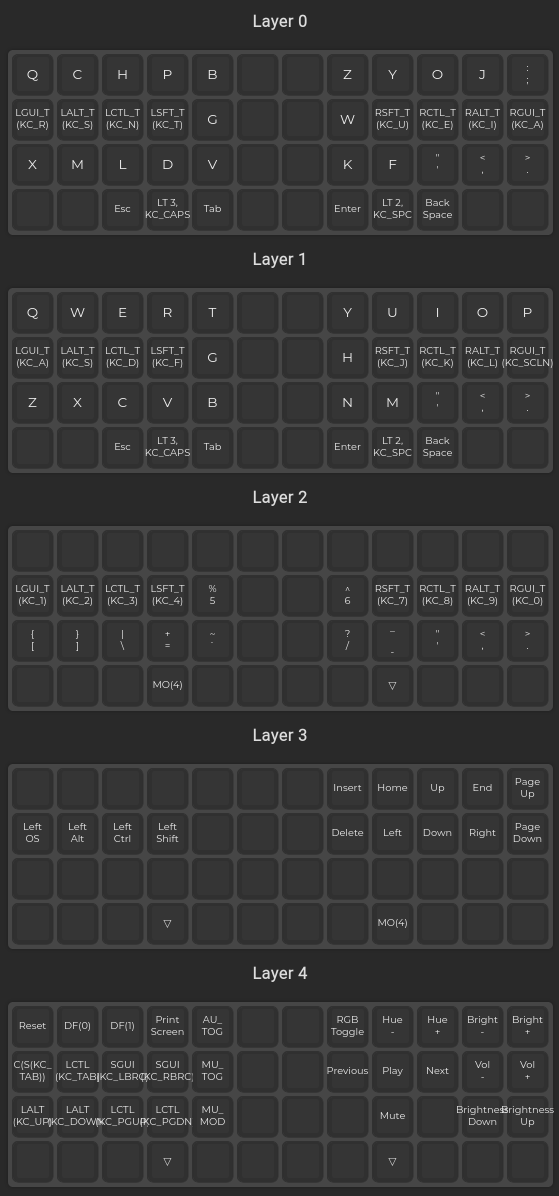
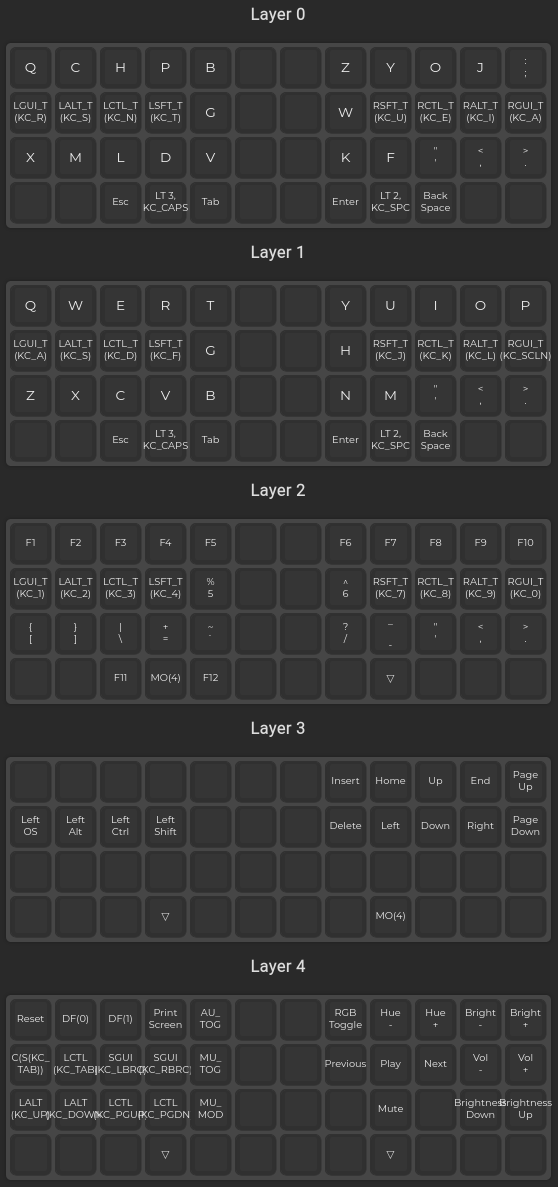
Add F keys

diff --git a/keymap.c b/keymap.c
@@ -9,7 +9,7 @@
 const uint16_t PROGMEM keymaps[][MATRIX_ROWS][MATRIX_COLS] = {
 	[0] = LAYOUT_ortho_4x12(KC_Q, KC_C, KC_H, KC_P, KC_B, KC_NO, KC_NO, KC_Z, KC_Y, KC_O, KC_J, KC_SCLN, LGUI_T(KC_R), LALT_T(KC_S), LCTL_T(KC_N), LSFT_T(KC_T), KC_G, KC_NO, KC_NO, KC_W, RSFT_T(KC_U), RCTL_T(KC_E), RALT_T(KC_I), RGUI_T(KC_A), KC_X, KC_M, KC_L, KC_D, KC_V, KC_NO, KC_NO, KC_K, KC_F, KC_QUOT, KC_COMM, KC_DOT, KC_NO, KC_NO, KC_ESC, LT(3,KC_CAPS), KC_TAB, KC_NO, KC_NO, KC_ENT, LT(2,KC_SPC), KC_BSPC, KC_NO, KC_NO),
 	[1] = LAYOUT_ortho_4x12(KC_Q, KC_W, KC_E, KC_R, KC_T, KC_NO, KC_NO, KC_Y, KC_U, KC_I, KC_O, KC_P, LGUI_T(KC_A), LALT_T(KC_S), LCTL_T(KC_D), LSFT_T(KC_F), KC_G, KC_NO, KC_NO, KC_H, RSFT_T(KC_J), RCTL_T(KC_K), RALT_T(KC_L), RGUI_T(KC_SCLN), KC_Z, KC_X, KC_C, KC_V, KC_B, KC_NO, KC_NO, KC_N, KC_M, KC_QUOT, KC_COMM, KC_DOT, KC_NO, KC_NO, KC_ESC, LT(3,KC_CAPS), KC_TAB, KC_NO, KC_NO, KC_ENT, LT(2,KC_SPC), KC_BSPC, KC_NO, KC_NO),
-	[2] = LAYOUT_ortho_4x12(KC_NO, KC_NO, KC_NO, KC_NO, KC_NO, KC_NO, KC_NO, KC_NO, KC_NO, KC_NO, KC_NO, KC_NO, LGUI_T(KC_1), LALT_T(KC_2), LCTL_T(KC_3), LSFT_T(KC_4), KC_5, KC_NO, KC_NO, KC_6, RSFT_T(KC_7), RCTL_T(KC_8), RALT_T(KC_9), RGUI_T(KC_0), KC_LBRC, KC_RBRC, KC_BSLS, KC_EQL, KC_GRV, KC_NO, KC_NO, KC_SLSH, KC_MINS, KC_QUOT, KC_COMM, KC_DOT, KC_NO, KC_NO, KC_NO, MO(4), KC_NO, KC_NO, KC_NO, KC_NO, KC_TRNS, KC_NO, KC_NO, KC_NO),
+	[2] = LAYOUT_ortho_4x12(KC_F1, KC_F2, KC_F3, KC_F4, KC_F5, KC_NO, KC_NO, KC_F6, KC_F7, KC_F8, KC_F9, KC_F10, LGUI_T(KC_1), LALT_T(KC_2), LCTL_T(KC_3), LSFT_T(KC_4), KC_5, KC_NO, KC_NO, KC_6, RSFT_T(KC_7), RCTL_T(KC_8), RALT_T(KC_9), RGUI_T(KC_0), KC_LBRC, KC_RBRC, KC_BSLS, KC_EQL, KC_GRV, KC_NO, KC_NO, KC_SLSH, KC_MINS, KC_QUOT, KC_COMM, KC_DOT, KC_NO, KC_NO, KC_F11, MO(4), KC_F12, KC_NO, KC_NO, KC_NO, KC_TRNS, KC_NO, KC_NO, KC_NO),
 	[3] = LAYOUT_ortho_4x12(KC_NO, KC_NO, KC_NO, KC_NO, KC_NO, KC_NO, KC_NO, KC_INS, KC_HOME, KC_UP, KC_END, KC_PGUP, KC_LGUI, KC_LALT, KC_LCTL, KC_LSFT, KC_NO, KC_NO, KC_NO, KC_DEL, KC_LEFT, KC_DOWN, KC_RGHT, KC_PGDN, KC_NO, KC_NO, KC_NO, KC_NO, KC_NO, KC_NO, KC_NO, KC_NO, KC_NO, KC_NO, KC_NO, KC_NO, KC_NO, KC_NO, KC_NO, KC_TRNS, KC_NO, KC_NO, KC_NO, KC_NO, MO(4), KC_NO, KC_NO, KC_NO),
 	[4] = LAYOUT_ortho_4x12(RESET, DF(0), DF(1), KC_PSCR, AU_TOG, KC_NO, KC_NO, RGB_TOG, RGB_HUD, RGB_HUI, RGB_VAD, RGB_VAI, C(S(KC_TAB)), LCTL(KC_TAB), SGUI(KC_LBRC), SGUI(KC_RBRC), MU_TOG, KC_NO, KC_NO, KC_MPRV, KC_MPLY, KC_MNXT, KC_VOLD, KC_VOLU, LALT(KC_UP), LALT(KC_DOWN), LCTL(KC_PGUP), LCTL(KC_PGDN), MU_MOD, KC_NO, KC_NO, KC_NO, KC_MUTE, KC_NO, KC_BRID, KC_BRIU, KC_NO, KC_NO, KC_NO, KC_TRNS, KC_NO, KC_NO, KC_NO, KC_NO, KC_TRNS, KC_NO, KC_NO, KC_NO)
 };
